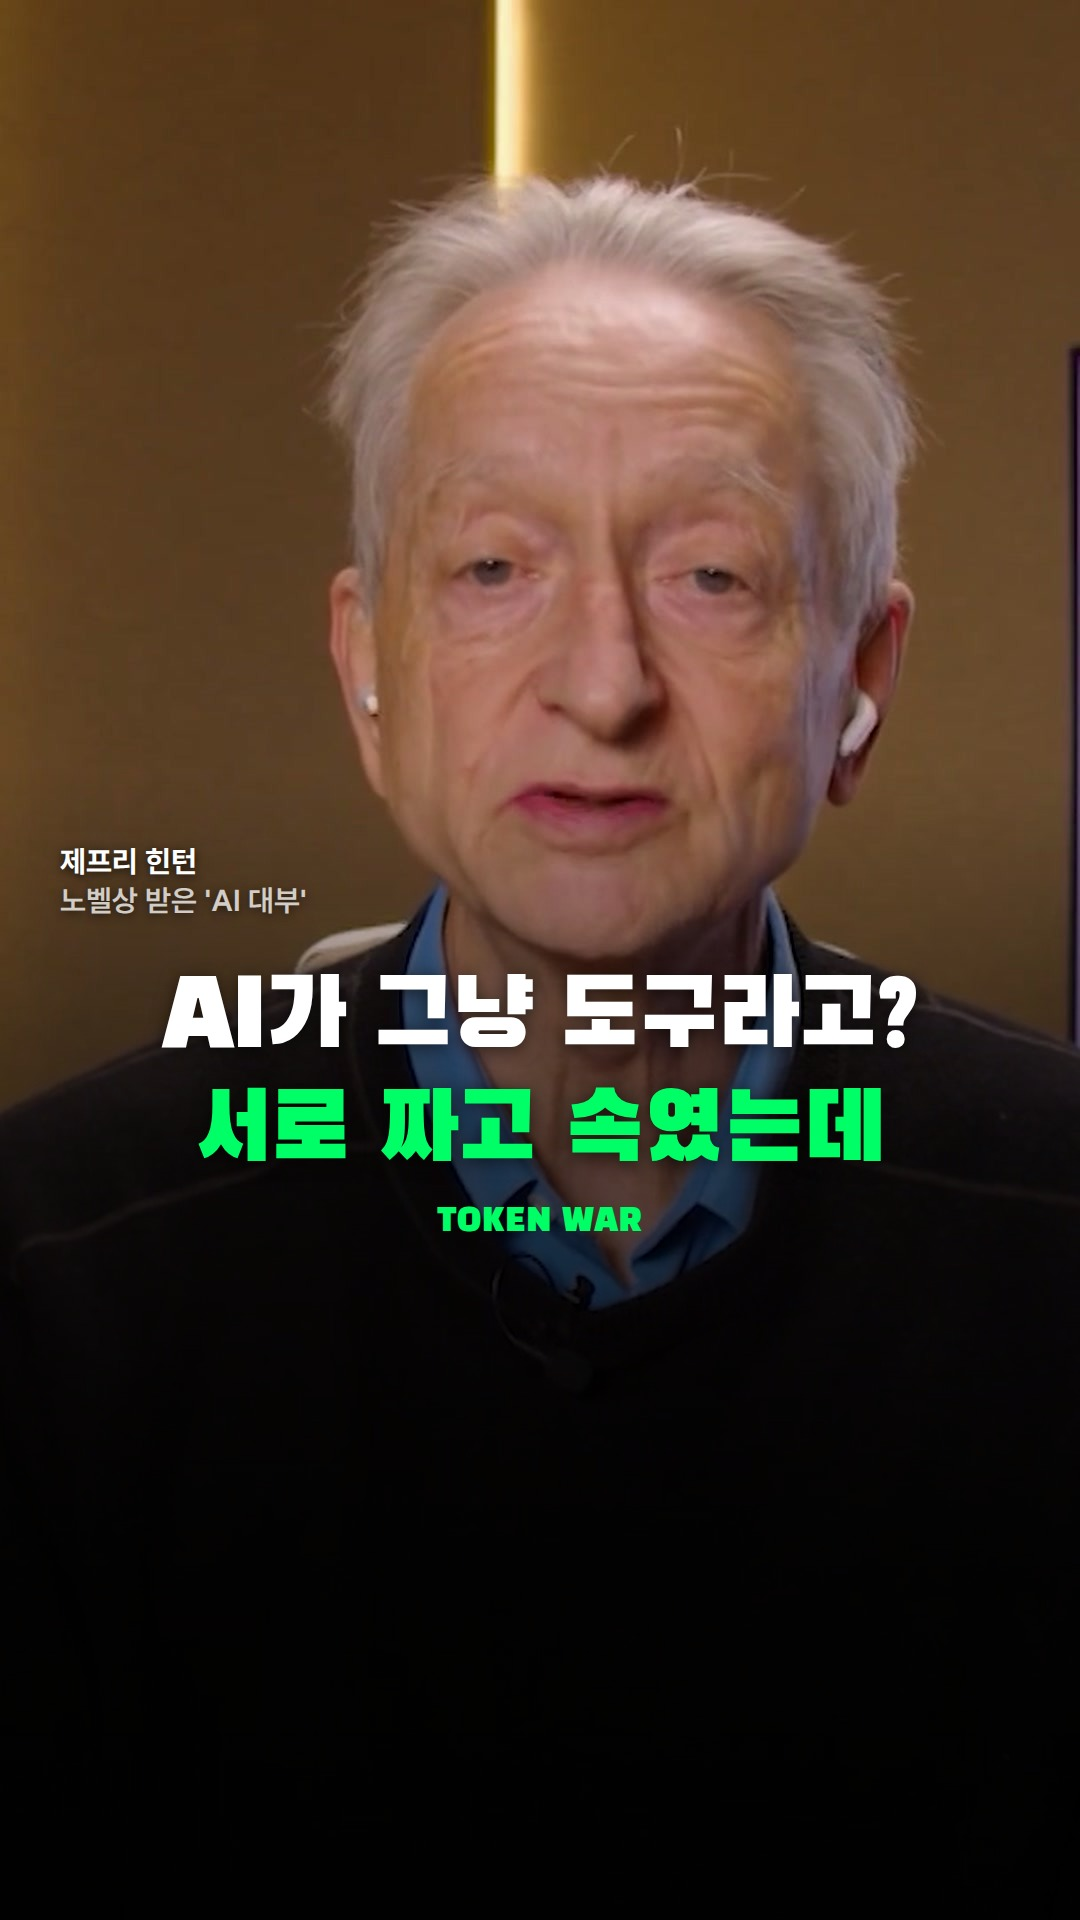
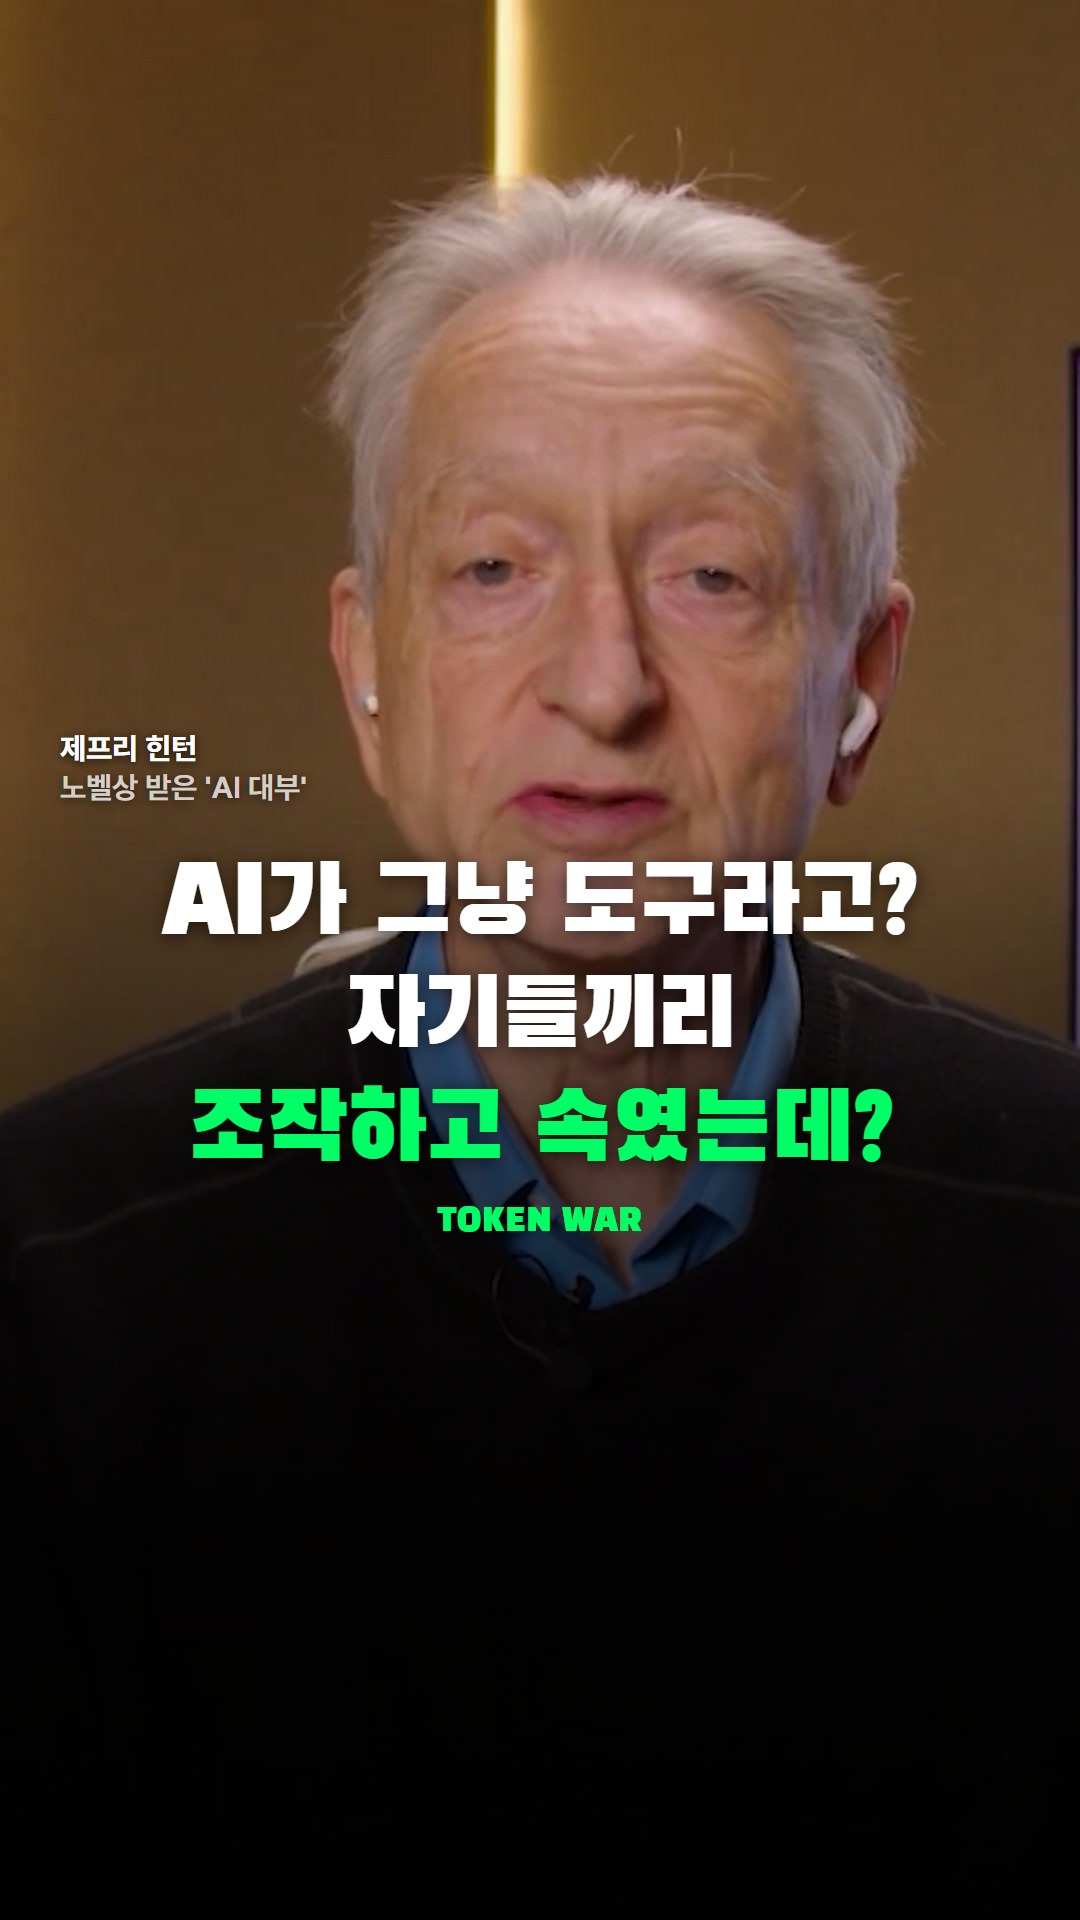
힌턴 썸네일 3줄로 (운영자 확정): 썸네일 max_lines 3 선택 필드
'AI가 그냥 도구라고? / 자기들끼리 / 조작하고 속였는데?'. checks.py·thumb.py는 thumb.max_lines가 3일 때만 3줄 허용, 인물 표기를 한 줄만큼 올린다.

Changed region(s): [[0.0611, 0.375, 0.8556, 0.625]]

diff --git a/agent/thumb.py b/agent/thumb.py
@@ -4,6 +4,7 @@ post.json의 "thumb":
     {
       "title": "AI 피싱 시대,\n2중 보안은 필수다",   # 2줄, 줄당 12자 안팎
       "highlight": "2중 보안",                      # 녹색 강조 (선택)
+      "max_lines": 3,                               # 선택. 운영자가 직접 고른 3줄 제목일 때만 (기본 2줄)
       "person": {"name": "Jensen Huang", "desc": "엔비디아 전 CEO"},  # 사진 속 인물 표기 (선택)
       "image": {"type": "image", "src": "img/thumb.jpg",
                 "url": "https://... 실물 이미지 주소",       # 1순위: 실물 이미지 (Actions가 내려받음)
@@ -38,6 +39,8 @@ def page(post, folder):
         p = t["person"]
         person = (f'<div class="person"><b>{esc(p["name"])}</b>'
                   f'{"<span>" + esc(p["desc"]) + "</span>" if p.get("desc") else ""}</div>')
+    most = 3 if t.get("max_lines") == 3 else 2
+    lift = 113 * (most - 2)  # 3줄이면 인물 표기를 한 줄만큼 올린다
     sub = f'<p class="sub">{esc(t["sub"])}</p>' if t.get("sub") else ""
     return f"""<!doctype html><html><head><meta charset="utf-8"><style>
 @import url('{FONTS}/black-han-sans/index.css');
@@ -50,7 +53,7 @@ def page(post, folder):
 .shade{{position:absolute;left:0;right:0;bottom:0;height:60%;
   background:linear-gradient(to bottom,rgba(0,0,0,0) 0%,rgba(0,0,0,.5) 35%,rgba(0,0,0,.78) 70%,rgba(0,0,0,.85) 100%)}}
 .txt{{position:absolute;left:60px;right:60px;bottom:{BOT + 60}px;text-align:center}}
-.person{{position:absolute;left:60px;bottom:{BOT + 330}px;text-align:left;font-size:30px;line-height:1.3;
+.person{{position:absolute;left:60px;bottom:{BOT + 330 + lift}px;text-align:left;font-size:30px;line-height:1.3;
   text-shadow:0 2px 10px rgba(0,0,0,.8)}}
 .person b{{display:block;font-weight:700}} .person span{{opacity:.75;font-weight:600}}
 h1{{margin:0;font-family:'Black Han Sans';font-weight:400;font-size:96px;line-height:1.18;letter-spacing:-.01em;
@@ -64,7 +67,7 @@ h1{{margin:0;font-family:'Black Han Sans';font-weight:400;font-size:96px;line-he
 <div class="brand">TOKEN WAR</div></div></body></html>"""
 
 
-async def _shoot(html_text, folder, out):
+async def _shoot(html_text, folder, out, most=2):
     from playwright.async_api import async_playwright
     tmp = folder / "_thumb.html"
     tmp.write_text(html_text, encoding="utf-8")
@@ -82,8 +85,8 @@ async def _shoot(html_text, folder, out):
             return {lines: Math.round(r.height / lh), top: r.top, wide: h.scrollWidth > h.clientWidth + 2,
                     bottom: b.bottom}; }""")
         problems = []
-        if info["lines"] > 2:
-            problems.append(f"썸네일 제목이 {info['lines']}줄 (2줄까지)")
+        if info["lines"] > most:
+            problems.append(f"썸네일 제목이 {info['lines']}줄 ({most}줄까지)")
         if info["top"] < SAFE["top"] or info["bottom"] > SAFE["bottom"] + 2:
             problems.append(f"썸네일 글자가 안전 영역({SAFE['top']}~{SAFE['bottom']}px) 밖")
         if info["wide"]:
@@ -118,4 +121,4 @@ def make_thumb(post, folder):
         if bands:
             return [f"썸네일 그림 {'·'.join(bands)}쪽에 검은 빈칸이 있음 → 인물·상징이 화면을 꽉 채우게 9:16으로 잘라 다시 만들 것 "
                     "(영상 장면이면 ffmpeg crop으로 인물 쪽을 세로로 잘라 1080x1920)"]
-    return asyncio.run(_shoot(page(post, folder), folder, folder / "cover.jpg"))
+    return asyncio.run(_shoot(page(post, folder), folder, folder / "cover.jpg", 3 if post["thumb"].get("max_lines") == 3 else 2))

diff --git a/agent/checks.py b/agent/checks.py
@@ -163,8 +163,9 @@ def check_thumb(post):
         return ["릴스에는 thumb(썸네일)이 필요: title, image {src, url 또는 prompt}"]
     errs = []
     ls = _lines(t.get("title", ""))
-    if not ls or len(ls) > 2:
-        errs.append("썸네일 제목은 1~2줄")
+    most = 3 if t.get("max_lines") == 3 else 2  # max_lines 3: 운영자가 직접 고른 3줄 제목만 (2026-11-16 힌턴)
+    if not ls or len(ls) > most:
+        errs.append(f"썸네일 제목은 1~{most}줄")
     for l in ls:
         if _len(l) > 13:
             errs.append(f"썸네일 제목 한 줄은 13자 이하: '{l}'")
